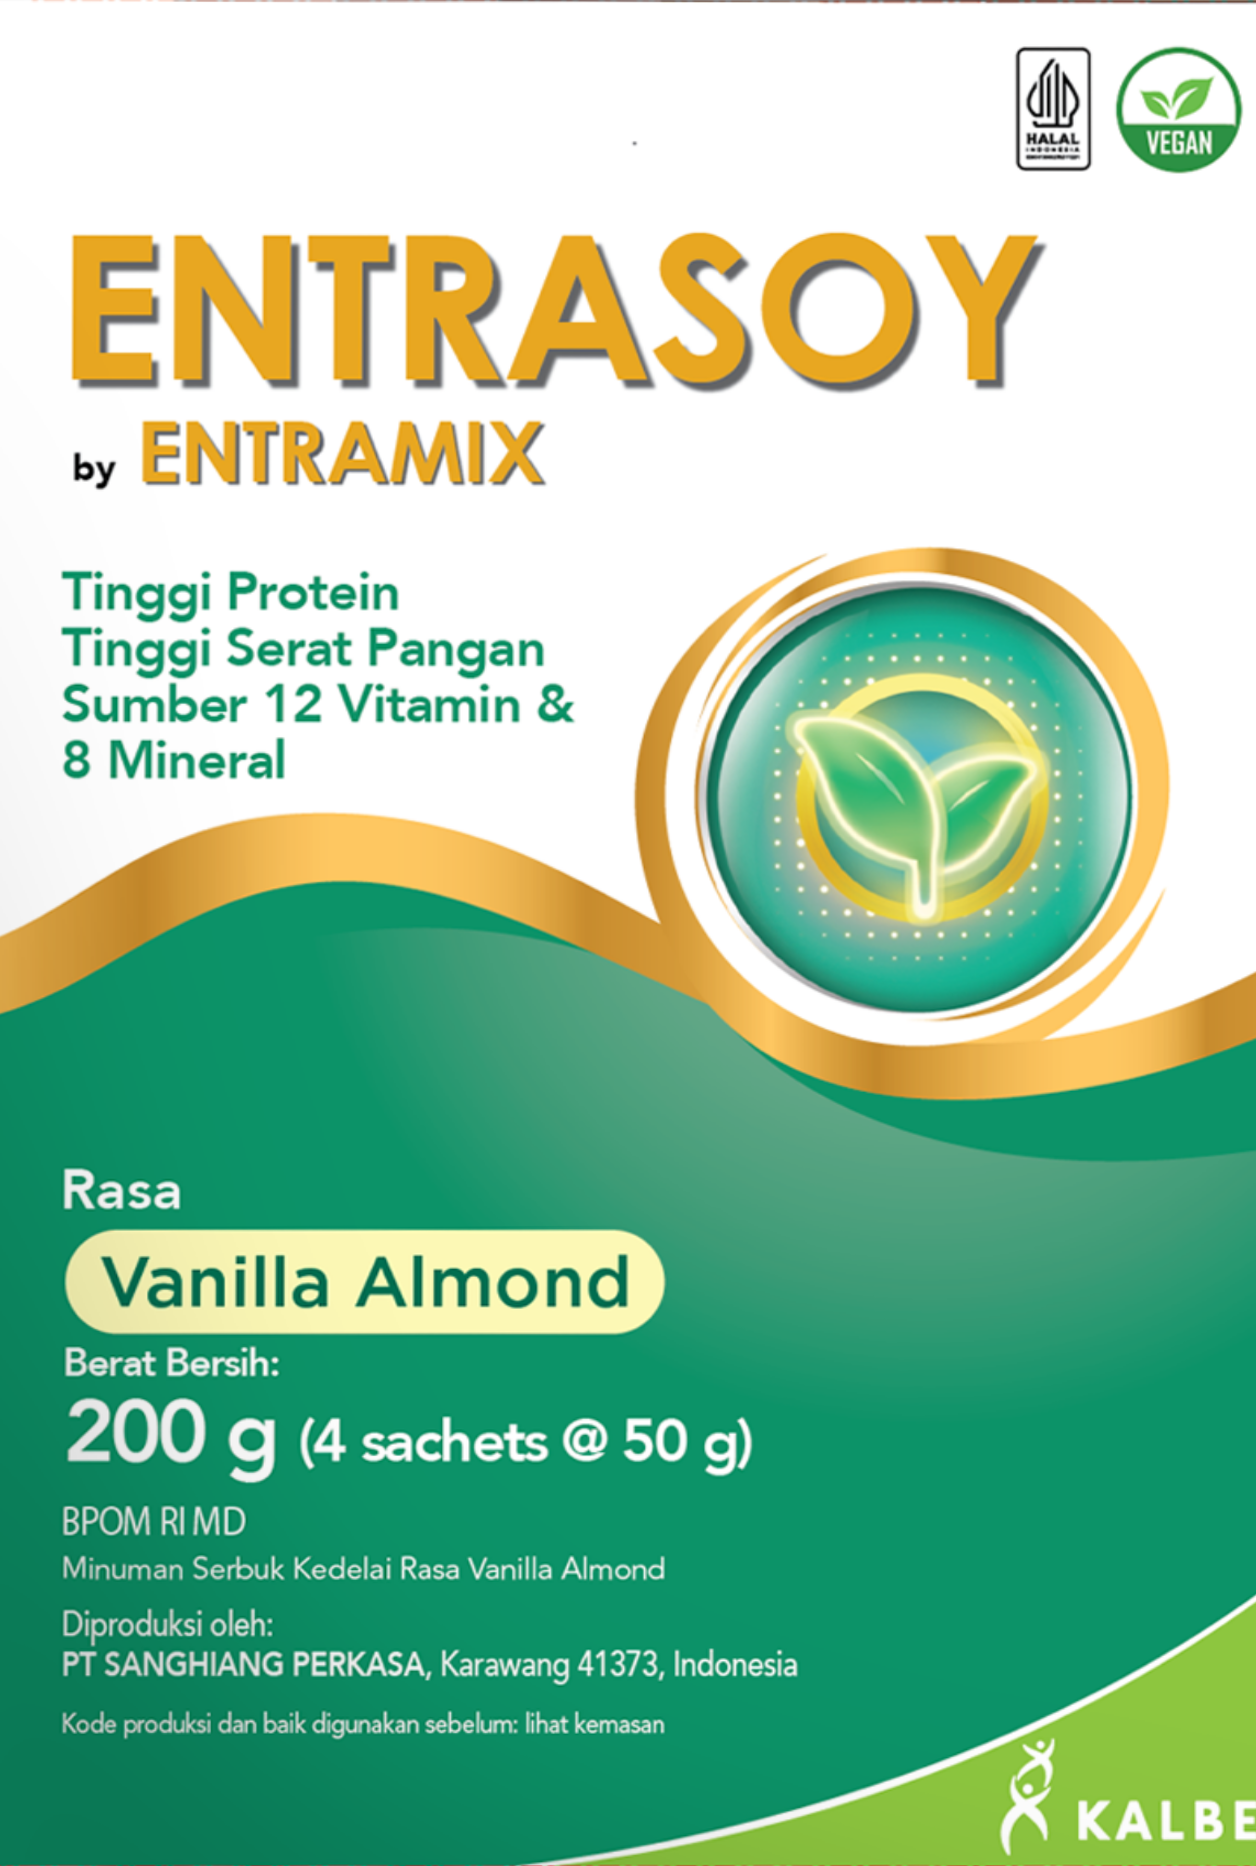
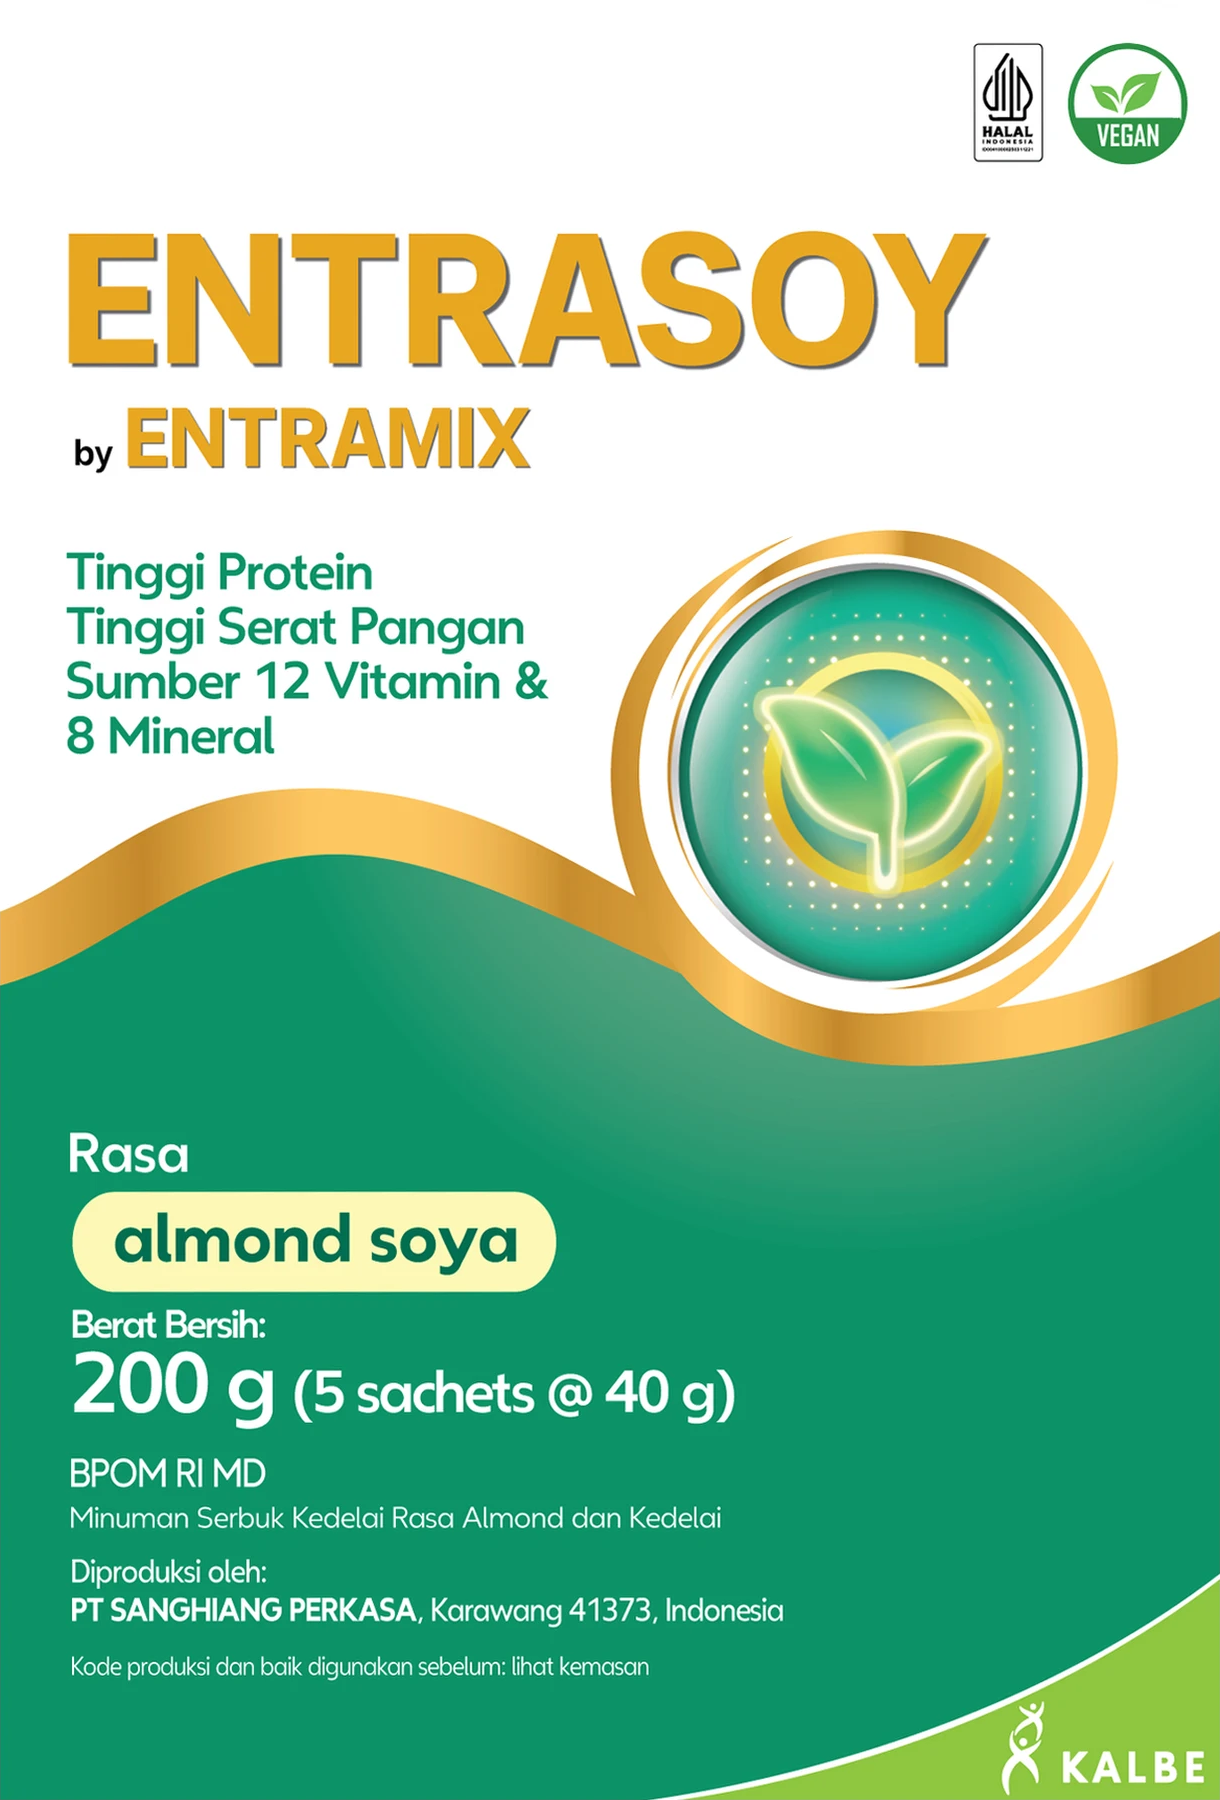
feat: use Almond Soya Entrasoy images and flavor name
Replace the Entrasoy front packshot and lifestyle scene with the Almond Soya
versions (used on the homepage and product pages) and rename the flavor from
Almond Vanila to Almond Soya.

diff --git a/src/data/product-nutrition.ts b/src/data/product-nutrition.ts
@@ -261,7 +261,7 @@ export const productNutrition: Record<string, ProductNutrition> = {
         "Kurang dari 250.",
 
       flavors: [
-        "Almond Vanila",
+        "Almond Soya",
       ],
 
       availability:
@@ -292,7 +292,7 @@ export const productNutrition: Record<string, ProductNutrition> = {
 
     variants: [
       {
-        name: "Almond Vanila",
+        name: "Almond Soya",
         image:
           "/images/mednut/products/front/entrasoy.png",
       },
